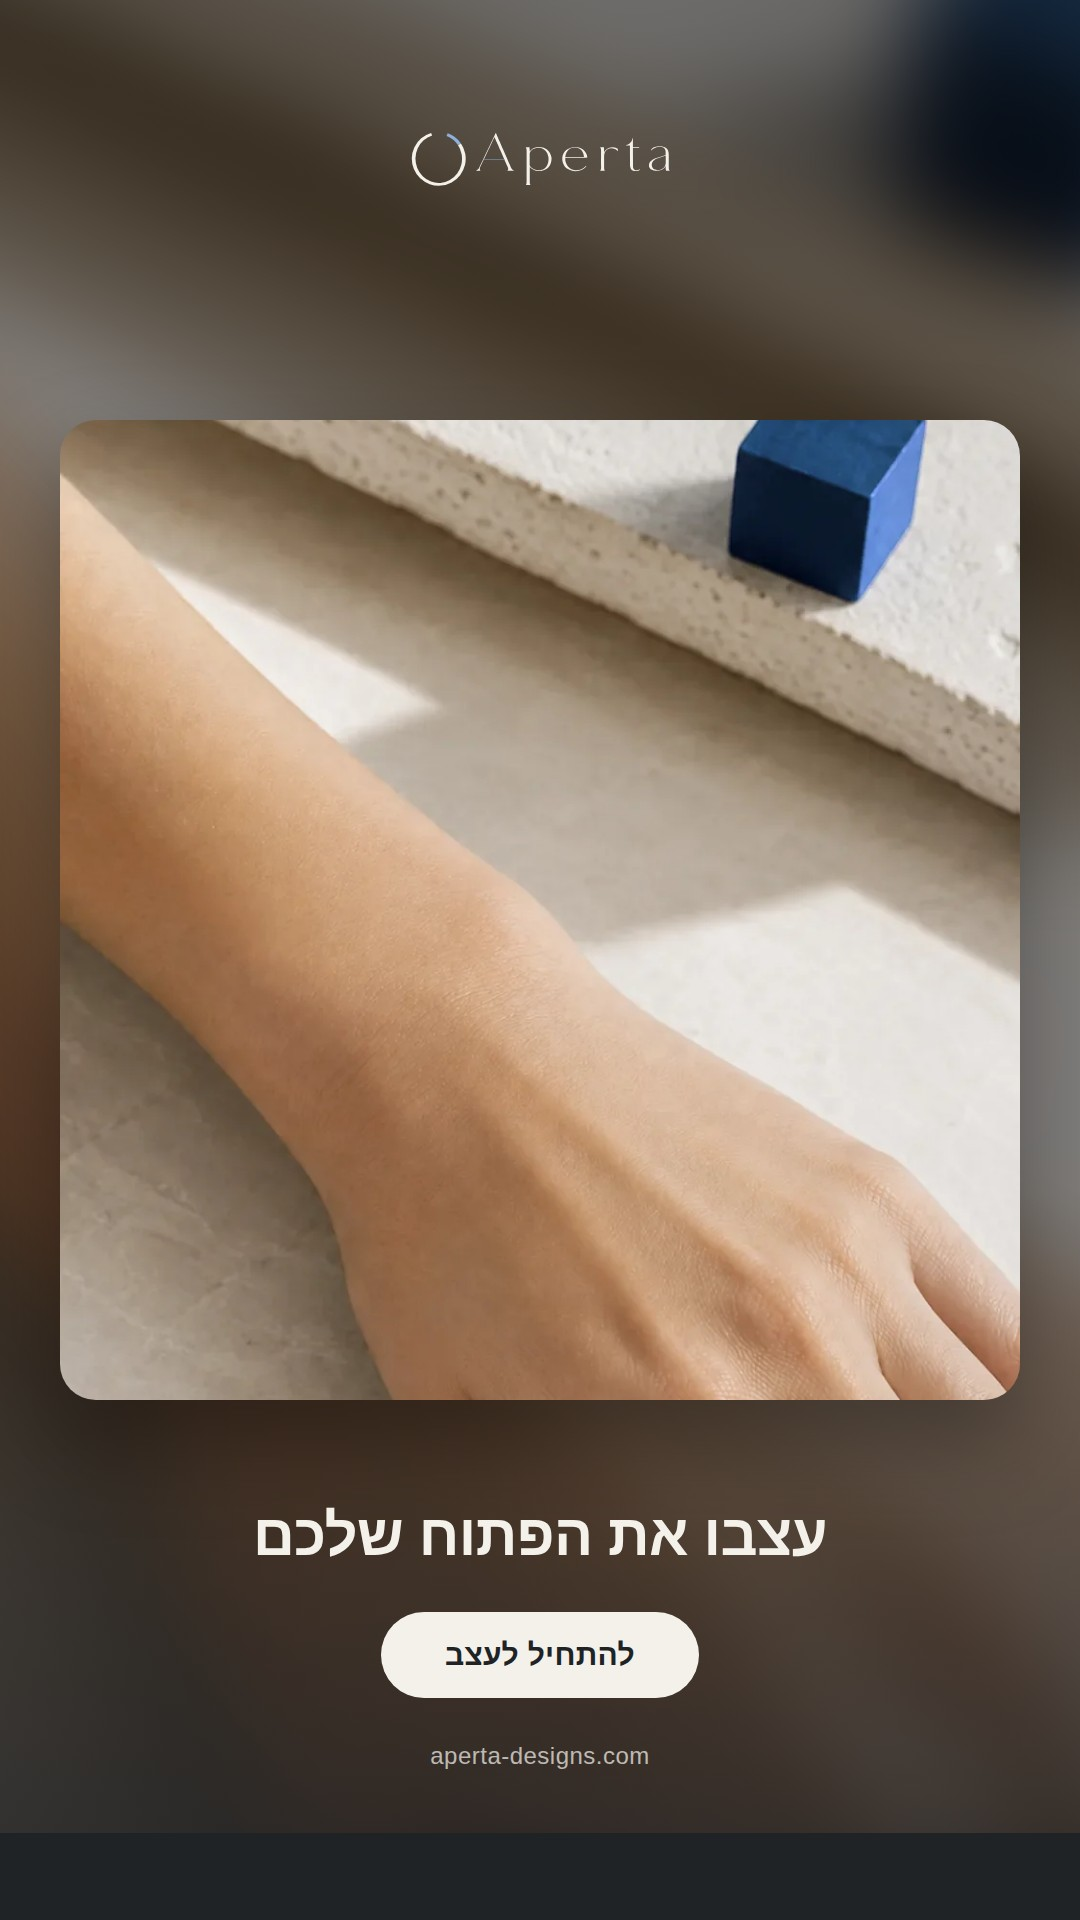
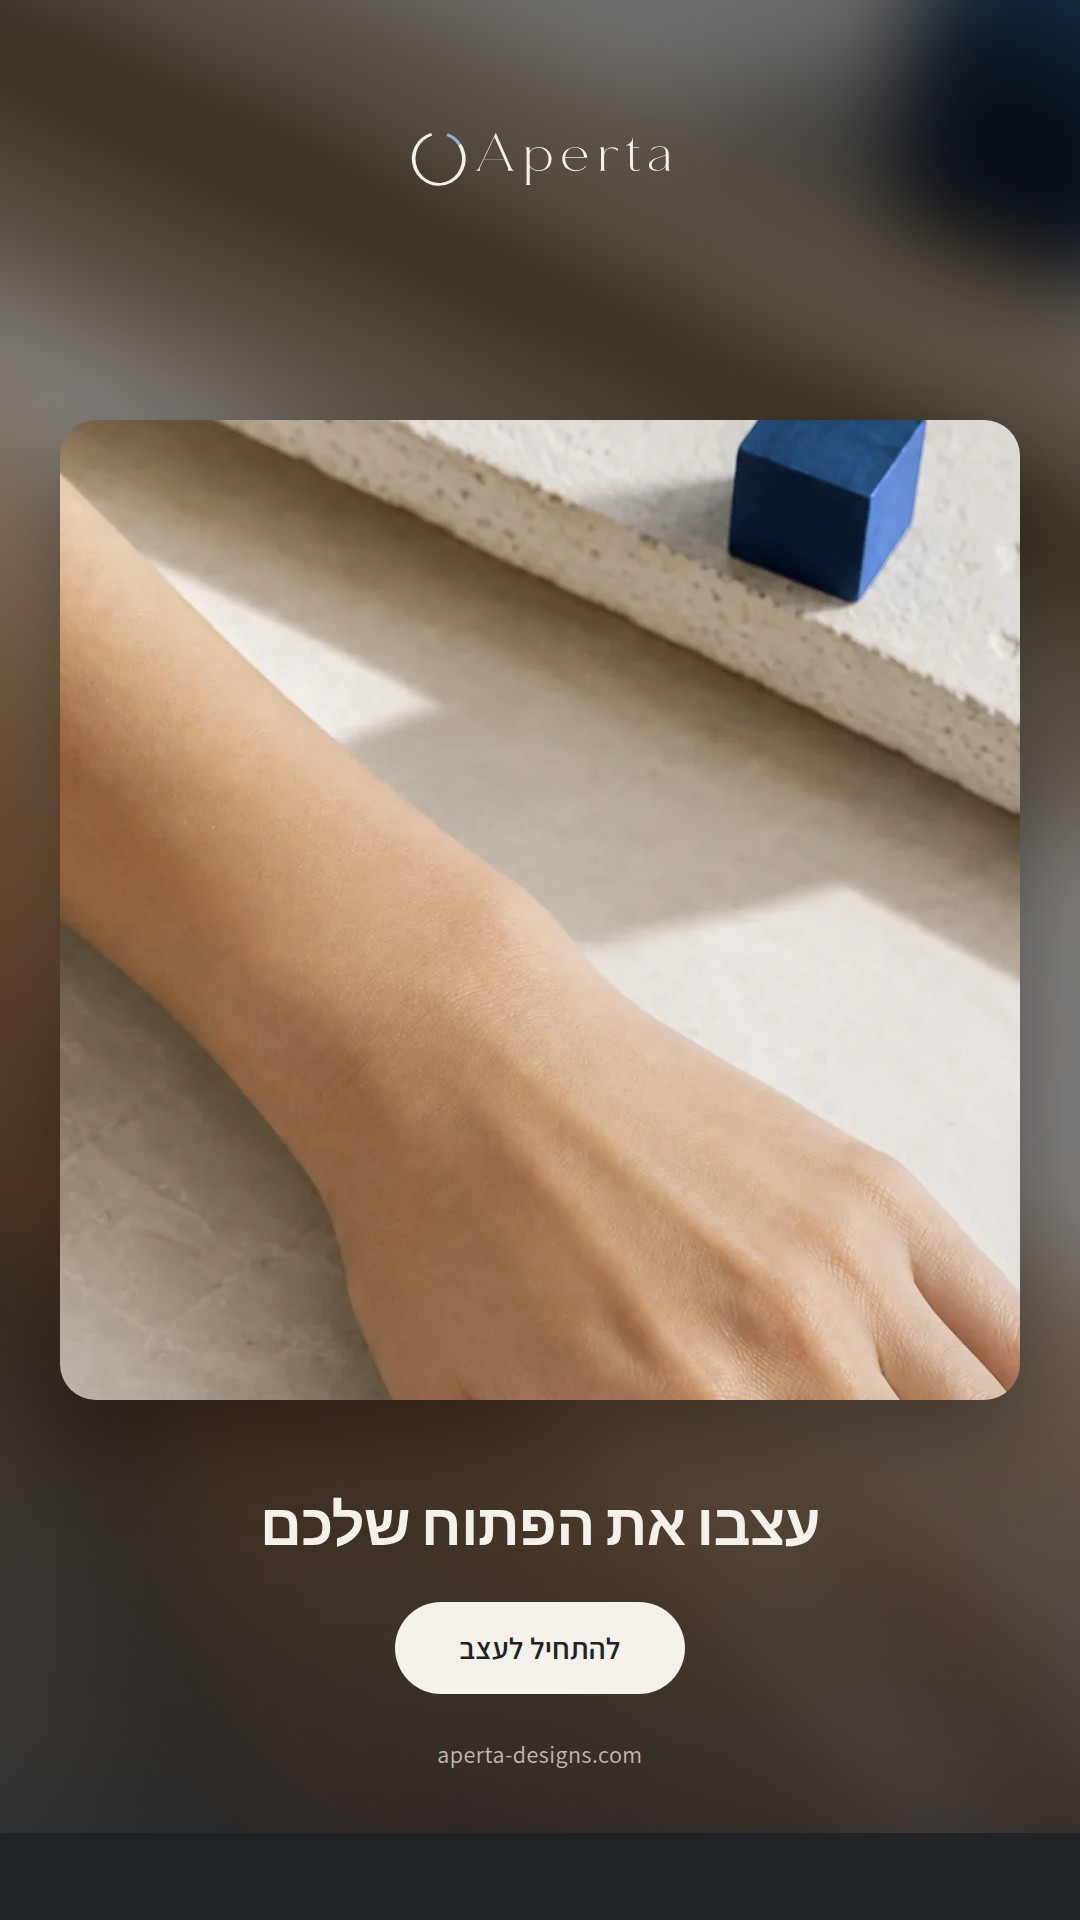
Fix missing punctuation in the Facebook/X cover tagline (#181)
* Fix missing punctuation in the Facebook/X cover tagline

The tagline's trailing period spans were silently failing to paint in
headless Chromium specifically when the tagline shared an absolutely
positioned, shrink-to-fit flex column with a preceding sibling (the
brand lockup) and used justify-content:center for vertical centering.
Replaced the centering with a precomputed integer pixel offset, which
sidesteps the paint bug entirely — confirmed by highlighting the
accent spans and by pixel-diffing the rendered output.

* Fix Facebook cover: dropped second tagline line + self-host fonts

Two compounding issues, both traced back to font loading and a genuine
small-viewport rendering bug in this headless Chromium build:

- The tagline was one line wide enough to run under the busy photo panel,
  making the Hebrew text unreadable where it crossed onto the image. Split
  into two short lines that stay fully on the porcelain background.
- Below roughly 450px of viewport height, this Chromium build silently
  drops or garbles some text elements — reproduced with minimal repros
  across unrelated layouts, independent of DPI/content. The Facebook cover
  is a fixed 820x312, so it now renders into a taller offscreen canvas and
  gets cropped down to the real size afterward.
- Google Fonts is now self-hosted (docs/brand/social/fonts/*.woff2) rather
  than fetched live: font-display:swap races the headless screenshot
[…]

diff --git a/docs/brand/social/build-social-assets.py b/docs/brand/social/build-social-assets.py
@@ -37,8 +37,38 @@ GRAPHITE = "#202326"
 LAPIS = "#3f6297"
 LAPIS_INK = "#2c4a76"
 
-FONTS_LINK = '''<link rel="preconnect" href="https://fonts.googleapis.com">
-<link href="https://fonts.googleapis.com/css2?family=Archivo:wght@400;500;600;700;800&family=Assistant:wght@300;400;500;600;700;800&display=swap" rel="stylesheet">'''
+# Fonts are self-hosted (docs/brand/social/fonts/*.woff2) rather than fetched
+# from fonts.googleapis.com at render time. A live fetch raced the headless
+# screenshot against the network: `font-display:swap` renders a fallback
+# immediately and swaps in the webfont whenever it lands, but the screenshot
+# doesn't wait for that swap — under any network hiccup (seen repeatedly here
+# as SSL handshake failures to Google Fonts) this silently dropped or
+# malformed Hebrew glyphs, which is what earlier looked like a Chromium flex
+# layout bug. Self-hosting removes the race entirely, matching why the site
+# itself self-hosts via next/font (see src/app/layout.tsx).
+FONTS_DIR = os.path.join(os.path.dirname(os.path.abspath(__file__)), "fonts")
+
+def font_url(name):
+    return "file://" + os.path.join(FONTS_DIR, name)
+
+FONTS_LINK = f'''<style>
+@font-face {{
+  font-family: 'Archivo';
+  font-weight: 700;
+  src: url('{font_url("archivo-700-latin.woff2")}') format('woff2');
+}}
+@font-face {{
+  font-family: 'Assistant';
+  font-weight: 300 800;
+  unicode-range: U+0590-05FF, U+FB1D-FB4F, U+200C-200F, U+20AA;
+  src: url('{font_url("assistant-hebrew.woff2")}') format('woff2');
+}}
+@font-face {{
+  font-family: 'Assistant';
+  font-weight: 300 800;
+  src: url('{font_url("assistant-latin.woff2")}') format('woff2');
+}}
+</style>'''
 
 BASE_CSS = f'''
 *{{margin:0;padding:0;box-sizing:border-box;}}
@@ -101,19 +131,31 @@ write("profile.html", profile, size=(1000, 1000))
 # ---------------------------------------------------------------- 2/3. Covers
 def cover_html(w, h, mark_h):
     panel_w = w * 0.6
+    # The tagline is split into two short lines instead of one long line: a
+    # single line at this width runs into the photo panel (`panel_w` is wide
+    # here specifically so the whole bracelet shows, per the earlier crop fix),
+    # and Hebrew text sitting half on porcelain and half on a busy product photo
+    # reads as broken/illegible. Two lines comfortably clear the photo on both
+    # cover sizes.
+    gap = h * 0.09
+    tagline_font = max(h * 0.088, 32)
     return f'''<!doctype html><html><head><meta charset="utf-8">{FONTS_LINK}<style>{BASE_CSS}
 html,body{{width:{w}px;height:{h}px;background:var(--porcelain);position:relative;overflow:hidden;font-family:'Assistant',sans-serif;}}
 .photo{{position:absolute;top:0;bottom:0;right:0;width:{panel_w:.0f}px;background-image:url('{photo_url("bracelet-hero.webp")}');background-size:cover;background-position:60% 60%;}}
 .fade{{position:absolute;top:0;bottom:0;right:0;width:{panel_w:.0f}px;background:linear-gradient(to right, var(--porcelain) 0%, rgba(244,241,235,0) 45%);}}
-.content{{position:absolute;top:0;bottom:0;left:{h*0.14:.0f}px;display:flex;flex-direction:column;justify-content:center;gap:{h*0.09:.0f}px;}}
-.tagline{{font-size:{h*0.088:.0f}px;color:var(--graphite);font-weight:600;letter-spacing:-0.01em;}}
-.tagline .accent{{color:var(--lapis-ink);}}
+.content{{position:absolute;top:0;bottom:0;left:{w*0.115:.0f}px;display:flex;flex-direction:column;justify-content:center;gap:{gap:.0f}px;}}
+.tagline{{font-size:{tagline_font:.0f}px;color:var(--graphite);font-weight:700;letter-spacing:-0.01em;white-space:nowrap;}}
+.tagline-lines{{display:flex;flex-direction:column;gap:{tagline_font*0.15:.0f}px;}}
+.accent{{color:var(--lapis-ink);}}
 </style></head><body>
 <div class="photo"></div>
 <div class="fade"></div>
 <div class="content">
 {lockup(h*0.30)}
-<div class="tagline">אינסוף צורות<span class="accent">.</span> אחת שלך<span class="accent">.</span></div>
+<div class="tagline-lines">
+<div class="tagline">אינסוף צורות<span class="accent">.</span></div>
+<div class="tagline">אחת שלך<span class="accent">.</span></div>
+</div>
 </div>
 </body></html>'''
 
@@ -235,20 +277,34 @@ def find_chrome(explicit):
         "Could not find a Chromium/Chrome binary. Pass --chrome <path> or set CHROME_BIN."
     )
 
+# This headless Chromium build has a genuine rendering bug at short viewport
+# heights: some text elements silently fail to paint (or paint garbled/
+# overlapping) below roughly this height, independent of width, DPI, or page
+# content — reproduced and confirmed with minimal repros across several
+# unrelated layouts. Any page shorter than this renders into a taller window
+# instead, and the result is cropped back down to the real target size.
+MIN_SAFE_RENDER_HEIGHT = 450
+
 def render(chrome, html_name, w, h):
     src = os.path.join(BUILD_DIR, html_name)
     png_name = html_name.replace(".html", ".png")
     dst = os.path.join(BUILD_DIR, png_name)
+    render_h = max(h, MIN_SAFE_RENDER_HEIGHT)
     subprocess.run(
         [
             chrome, "--headless=new", "--no-sandbox", "--disable-gpu",
             "--hide-scrollbars", "--force-device-scale-factor=1",
-            f"--window-size={w},{h}", f"--screenshot={dst}", f"file://{src}",
+            f"--window-size={w},{render_h}", f"--screenshot={dst}", f"file://{src}",
         ],
         check=True,
         stdout=subprocess.DEVNULL,
         stderr=subprocess.DEVNULL,
     )
+    if render_h != h:
+        from PIL import Image
+
+        im = Image.open(dst)
+        im.crop((0, 0, w, h)).save(dst)
     return dst
 
 def export(png_path, stem, fmt):

diff --git a/docs/brand/social/README.md b/docs/brand/social/README.md
@@ -24,9 +24,11 @@ python3 docs/brand/social/build-social-assets.py
 ```
 
 דורש Chromium מקומי (בדיפולט מחפש בנתיב הידוע של Playwright, `CHROME_BIN`,
-או `--chrome <path>`) וגישת רשת ל-`fonts.googleapis.com` לאותם גופנים
-שהאתר טוען (Archivo + Assistant). השינוי היחיד שהסקריפט עושה הוא דריסת
-קובצי ה-PNG/JPG בתיקייה הזו — הוא לא נוגע ב-`public/` או בקוד האתר.
+או `--chrome <path>`). הגופנים (`fonts/*.woff2`) מוגשים מקומית, לא מ-
+`fonts.googleapis.com` — ראו ההערה בתוך `FONTS_LINK` בקוד לסיבה (מרוץ בין
+טעינת הפונט לצילום המסך גרם לתווים עבריים ליפול בשקט תחת רשת לא יציבה).
+השינוי היחיד שהסקריפט עושה הוא דריסת קובצי ה-PNG/JPG בתיקייה הזו — הוא לא
+נוגע ב-`public/` או בקוד האתר.
 
 לשינוי טקסט, מידות או פריסה — כל נכס בנוי מפונקציית HTML קטנה בתוך
 `build-social-assets.py`; אין קבצי עיצוב חיצוניים.
